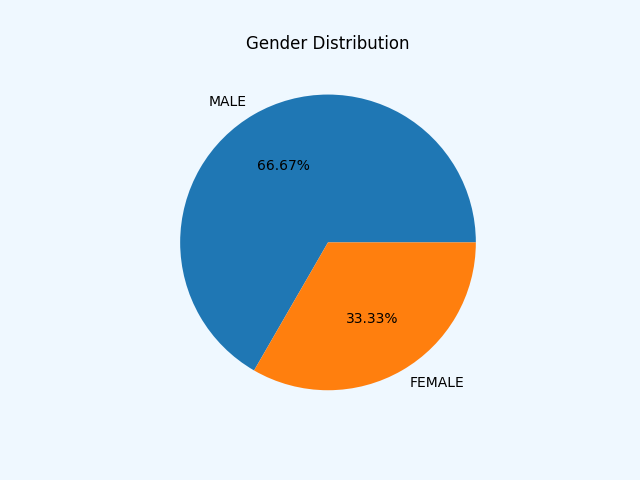
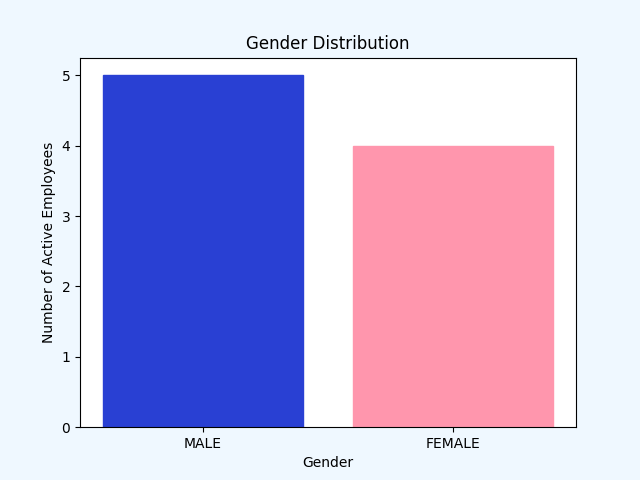
v0.9.0

diff --git a/admin/view_report.py b/admin/view_report.py
@@ -41,7 +41,7 @@ def monthly_report_func(event, self):
         """)
         y_atten_count.append(self.c.fetchone()[0])
     
-    self.c.execute("SELECT * FROM employees WHERE employee_id  != 'admin'")
+    self.c.execute("SELECT * FROM employees")
     num_of_emp = len(self.c.fetchall())
 
     fig = plt.figure()
@@ -51,13 +51,14 @@ def monthly_report_func(event, self):
         plt.bar(x_dates_of_month,y_atten_count)
     if graph_type == 'plot':
         plt.plot(x_dates_of_month,y_atten_count,'.-')
+        plt.fill_between(x_dates_of_month, y_atten_count, color='#539ecd')
 
     plt.ylim(top=num_of_emp)
     plt.xticks(rotation=65)
     plt.margins(0.01)
-    # plt.title('Monthly Attendance Report')
+    plt.title(f'Monthly Attendance Report for {cur_month_num.upper()} {cur_year_str.upper()}')
     plt.ylabel('NUMBER OF ATTENDANCE')
-    plt.xlabel(f'DATE OF MONTH FOR {cur_month_num.upper()} {cur_year_str.upper()}',labelpad=5)
+    plt.xlabel(f'DATE',labelpad=5)
     plt.savefig('report_fig/monthly_report.png')
     plt.close()
 
@@ -67,12 +68,12 @@ def monthly_report_func(event, self):
     self.monthly_fig = ImageTk.PhotoImage(Image.open('report_fig/monthly_report.png').resize((600, 430), Image.ANTIALIAS))
     self.month_label.config(image=self.monthly_fig)
 
-def gender_report_func(self,frame):
+def gender_percentage_func(self,frame):
     gender_num = []
-    self.c.execute("SELECT * FROM employees WHERE sex = 'MALE'")
+    self.c.execute("SELECT * FROM employees WHERE sex = 'MALE' AND work_status = 'active'")
     gender = ['MALE', 'FEMALE']
     gender_num.append(len(self.c.fetchall()))
-    self.c.execute("SELECT * FROM employees WHERE sex = 'FEMALE'")
+    self.c.execute("SELECT * FROM employees WHERE sex = 'FEMALE' AND work_status = 'active'")
     gender_num.append(len(self.c.fetchall()))
     graph = plt.pie(gender_num,labels=gender,autopct='%1.2f%%')
     # graph[0].set_color('#2940d3')
@@ -80,12 +81,32 @@ def gender_report_func(self,frame):
     plt.title('Gender Distribution')
     # plt.xlabel('Gender')
     # plt.ylabel('Number of Employees')
+    plt.savefig("report_fig/gender_percetage.png")
+    plt.close()
+
+    self.gender_report_img = ImageTk.PhotoImage(Image.open("report_fig/gender_percetage.png").resize((figure_w, figure_h), Image.ANTIALIAS))
+    Label(frame,image=self.gender_report_img,bg=BGCOLOR).pack()
+    
+def gender_report_func(self,frame):
+    gender_num = []
+    self.c.execute("SELECT * FROM employees WHERE sex = 'MALE' AND work_status = 'active'")
+    gender = ['MALE', 'FEMALE']
+    gender_num.append(len(self.c.fetchall()))
+    self.c.execute("SELECT * FROM employees WHERE sex = 'FEMALE' AND work_status = 'active'")
+    gender_num.append(len(self.c.fetchall()))
+    graph = plt.bar(gender,gender_num)
+    graph[0].set_color('#2940d3')
+    graph[1].set_color('#ff96ad')
+    plt.title('Gender Distribution')
+    plt.xlabel('Gender')
+    plt.ylabel('Number of Active Employees')
     plt.savefig("report_fig/gender_graph.png")
     plt.close()
 
-    self.gender_report_img = ImageTk.PhotoImage(Image.open('report_fig/gender_graph.png').resize((figure_w, figure_h), Image.ANTIALIAS))
-    Label(frame,image=self.gender_report_img,bg=BGCOLOR).pack()
+    self.gender_percentage_img = ImageTk.PhotoImage(Image.open('report_fig/gender_graph.png').resize((figure_w, figure_h), Image.ANTIALIAS))
+    Label(frame,image=self.gender_percentage_img,bg=BGCOLOR).pack()
     
+
 
 def active_report_func(self,frame):
 
@@ -102,7 +123,7 @@ def active_report_func(self,frame):
     barlist[0].set_color('#00ff5e')   
     barlist[1].set_color('#fd085b')
     
-    # plt.title('ACTIVE AND INACTIVE EMPLOYEES')
+    plt.title('Active and Inactive Employees')
     plt.ylabel('NUMBER OF EMPLOYEES')
     plt.xlabel('WORK STATUS OF EMPLOYEE')
     plt.savefig('report_fig/active_report.png')
@@ -121,9 +142,9 @@ def hearbeat_report_func(self,frame):
         y_per_month_count.append(len(self.c.fetchall()))
 
     plt.bar(x_months,y_per_month_count)
-    # plt.title('Current Year Attendance Report')
+    plt.title('Current Year Attendance Report')
     plt.ylabel('NUMBER OF EMPLOYEES')
-    plt.xlabel('Month')
+    plt.xlabel('MONTH')
     plt.savefig('report_fig/hearbeat_report.png')
     plt.close()
 
@@ -163,13 +184,14 @@ def view_report(self,menu_page):
     # I use LabelFrame just to see the division of contents, maybe change into Frame later
 
     global month_option
-    years_list = [str(x) for x in range(2010, 2050+1)]
+    self.cur_year = date.today().strftime('%Y')
+    years_list = [str(x) for x in range(2010, int(self.cur_year)+1)]
     month_option = ['Jan', 'Feb', 'Mar', 'Apr', 'May', 'Jun', 'Jul', 'Aug', 'Sep', 'Oct', 'Nov', 'Dec']
     g_type = ['bar','plot']
     cur_month = date.today().strftime('%b')
-    self.cur_year = date.today().strftime('%Y')
     
-    monthly_report_frame=LabelFrame(new_frame,text="MONTHLY ATTENDACE REPORT",bg=BGCOLOR,pady=frame_h,padx=frame_w)
+    #interactive monthly report
+    monthly_report_frame=LabelFrame(new_frame,bg=BGCOLOR,pady=frame_h,padx=frame_w)
     self.month_combo = ttk.Combobox(monthly_report_frame, value=month_option, width=5,state="readonly")
     self.month_combo.current(month_option.index(cur_month))
     
@@ -191,33 +213,43 @@ def view_report(self,menu_page):
     self.month_label.grid(row=0,column=0,columnspan=3)
     self.month_combo.grid(row=1,column=1,padx=5)
     self.year_combo.grid(row=1,column=1,sticky=E,padx=5)
-    Label(monthly_report_frame,text="Graph Type: ",bg=BGCOLOR).grid(row=1,column=2)
-    self.gtype_combo.grid(row=1,column=2,sticky=E,padx=5)
+    Label(monthly_report_frame,text="Graph View: ",bg=BGCOLOR).grid(row=1,column=2,sticky=W,padx=(25,0))
+    self.gtype_combo.grid(row=1,column=2,padx=5)
     monthly_report_frame.grid(row=1,column=1,columnspan=2)
     
     ttk.Separator(new_frame,orient='horizontal').grid(row=2,column=1,columnspan=3,sticky=EW,pady=30)
     Label(new_frame,text=" OTHER REPORT ",bg=BGCOLOR,font='Verdana, 12').grid(row=2,column=1,columnspan=3)
 
-    #frame from active and inactive report, edit the active_report_func function for the content
+    # inactive report
     fig = plt.figure()
     fig.patch.set_facecolor(BGCOLOR)
-    active_report_frame=LabelFrame(new_frame,text='ACTIVE AND INACTIVE REPORT',bg=BGCOLOR,pady=frame_w,padx=frame_h)
+    active_report_frame=LabelFrame(new_frame,bg=BGCOLOR,pady=frame_w,padx=frame_h)
     active_report_func(self,active_report_frame)
     active_report_frame.grid(row=3,column=1, padx=10)
 
+    
+    #current year attendace graph
     fig = plt.figure()
     fig.patch.set_facecolor(BGCOLOR)
-    #frame attendace graph, edit the hearbeat_report_func function for the content
-    hearbeat_report_frame=LabelFrame(new_frame,text='CURRENT YEAR ATTENDANCE REPORT',bg=BGCOLOR,pady=frame_h,padx=frame_w)
+    hearbeat_report_frame=LabelFrame(new_frame,bg=BGCOLOR,pady=frame_h,padx=frame_w)
     hearbeat_report_func(self,hearbeat_report_frame)
     hearbeat_report_frame.grid(row=3,column=2, padx=10)
 
+    #gender percentage
     fig = plt.figure()
     fig.patch.set_facecolor(BGCOLOR)
-    #frame from gender report, edit the gender_report_func function for the content
-    gender_report_frame=LabelFrame(new_frame,text="GENDER REPORT",bg=BGCOLOR,pady=frame_h,padx=frame_w)
+    gender_percentage_frame=LabelFrame(new_frame,bg=BGCOLOR,pady=frame_h,padx=frame_w)
+    gender_percentage_func(self,gender_percentage_frame)
+    gender_percentage_frame.grid(row=4,column=1,pady=20)
+    
+    #gender count report
+    fig = plt.figure()
+    fig.patch.set_facecolor(BGCOLOR)
+    gender_report_frame=LabelFrame(new_frame,bg=BGCOLOR,pady=frame_h,padx=frame_w)
     gender_report_func(self,gender_report_frame)
-    gender_report_frame.grid(row=4,column=1,columnspan=2)
+    gender_report_frame.grid(row=4,column=2,pady=20)
+
+    
 
     back_btn=Button(view_report_frame, image=self.back_img, bd=0, bg=BGCOLOR,command=lambda: [view_report_page.destroy(), menu_page.deiconify()])
     back_btn.place(x=900,y=450)

diff --git a/admin/show_record.py b/admin/show_record.py
@@ -53,49 +53,56 @@ def edit_record(self):
     id = record['values'][0]
     cell_size = 35
     table_col=3
-    edit_page_w = 400
+    edit_page_w = 500
     edit_page_h = 300
     x = int((self.scr_w/2) - (edit_page_w/2))
     y = int((self.scr_h/2) - (edit_page_h/2))
     win_size=f'{edit_page_w}x{edit_page_h}+{x}+{y}'
     global employee_id_edit,password_edit,first_name_edit,last_name_edit,sex_edit,schedule_in_edit,schedule_out_edit,work_status_edit, hide
     hide = 1
-    edit_record_page = Tk()
+    edit_record_page = Toplevel()
     edit_record_page.title('EDIT EMPLOYEE RECORD')
     edit_record_page.geometry(win_size)
-    edit_record_page.resizable(False,False)
     edit_record_page.config(bg=BGCOLOR)
 
-    Label(edit_record_page,text="EMPLOYEE ID:",bg=BGCOLOR).grid(row=2,column=table_col-1,padx=10,pady=(40,0 ))
-    employee_id_edit=Entry(edit_record_page, width=cell_size)
+    edit_record_frame = Frame(edit_record_page,bg=BGCOLOR)
+    edit_record_frame.pack()
+
+    Label(edit_record_frame,text="EMPLOYEE ID:",bg=BGCOLOR).grid(row=2,column=table_col-1,padx=10,pady=(40,0 ))
+    employee_id_edit=Entry(edit_record_frame, width=cell_size)
     employee_id_edit.grid(row=2, column=table_col, pady=(40, 0))
 
-    Label(edit_record_page,text="PASSWORD:",bg=BGCOLOR).grid(row=3,column=table_col-1)
-    password_edit=Entry(edit_record_page, width=cell_size)
-    password_edit.grid(row=3, column=table_col)
+    Label(edit_record_frame,text="PASSWORD:",bg=BGCOLOR).grid(row=3,column=table_col-1)
+    password_edit=Entry(edit_record_frame, width=cell_size)
+    password_edit.grid(row=3, column=table_col,sticky=W)
+
+    password_edit['show'] = '•'
+
+    check_box = Checkbutton(edit_record_frame,command=lambda :hides(record[1], check_box),bg=BGCOLOR)
+    check_box.grid(row=3, column=table_col,sticky=E)
     
-    Label(edit_record_page,text="FIRST NAME:",bg=BGCOLOR).grid(row=4,column=table_col-1)
-    first_name_edit=Entry(edit_record_page, width=cell_size)
+    Label(edit_record_frame,text="FIRST NAME:",bg=BGCOLOR).grid(row=4,column=table_col-1)
+    first_name_edit=Entry(edit_record_frame, width=cell_size)
     first_name_edit.grid(row=4, column=table_col)
 
-    Label(edit_record_page,text="LAST NAME:",bg=BGCOLOR).grid(row=5,column=table_col-1)
-    last_name_edit=Entry(edit_record_page,width=cell_size)
+    Label(edit_record_frame,text="LAST NAME:",bg=BGCOLOR).grid(row=5,column=table_col-1)
+    last_name_edit=Entry(edit_record_frame,width=cell_size)
     last_name_edit.grid(row=5,column=table_col)
 
-    Label(edit_record_page,text="SEX:",bg=BGCOLOR).grid(row=6,column=table_col-1)
-    sex_edit=Entry(edit_record_page, width=cell_size)
+    Label(edit_record_frame,text="SEX:",bg=BGCOLOR).grid(row=6,column=table_col-1)
+    sex_edit=Entry(edit_record_frame, width=cell_size)
     sex_edit.grid(row=6, column=table_col)
 
-    Label(edit_record_page,text="SCHEDULE IN:",bg=BGCOLOR).grid(row=7,column=table_col-1)
-    schedule_in_edit=Entry(edit_record_page, width=cell_size)
+    Label(edit_record_frame,text="SCHEDULE IN:",bg=BGCOLOR).grid(row=7,column=table_col-1)
+    schedule_in_edit=Entry(edit_record_frame, width=cell_size)
     schedule_in_edit.grid(row=7, column=table_col)
 
-    Label(edit_record_page, text="SCHEDULE OUT:",bg=BGCOLOR).grid(row=8, column=table_col - 1)
-    schedule_out_edit = Entry(edit_record_page, width=cell_size)
+    Label(edit_record_frame, text="SCHEDULE OUT:",bg=BGCOLOR).grid(row=8, column=table_col - 1)
+    schedule_out_edit = Entry(edit_record_frame, width=cell_size)
     schedule_out_edit.grid(row=8, column=table_col)
 
-    Label(edit_record_page, text="WORKING STATUS:",bg=BGCOLOR).grid(row=9, column=table_col - 1)
-    work_status_edit= Entry(edit_record_page, width=cell_size)
+    Label(edit_record_frame, text="WORKING STATUS:",bg=BGCOLOR).grid(row=9, column=table_col - 1)
+    work_status_edit= Entry(edit_record_frame, width=cell_size)
     work_status_edit.grid(row=9, column=table_col)
 
 
@@ -112,28 +119,18 @@ def edit_record(self):
         schedule_out_edit.insert(0, record[6])
         work_status_edit.insert(0,record[7])
 
-    password_edit['show'] = '*'
-
-    check_box = Button(edit_record_page, text='✓', relief=SUNKEN, width=1, bg=BGCOLOR,command=lambda :hides(record[1], check_box))
-    check_box.grid(row=10, column=table_col+1, pady=5)
-    Label(edit_record_page, text='Hide Password', bg=BGCOLOR).grid(row=10, column=table_col, sticky='e')
-
-    Button(edit_record_page,text="SAVE",width=15,command=lambda :update_query(self,edit_record_page,id),bg='#AAFE92').grid(row=11,column=table_col,pady=10)
-    Button(edit_record_page,text="CANCEL",width=15,command=lambda:edit_record_page.destroy(),bg='#e4bad4').grid(row=11,column=table_col-1,pady=10,padx=(35,0))
-
-    edit_record_page.mainloop()
-
+    
+    Button(edit_record_frame,image=self.cancel_img,bd=0,command=lambda:edit_record_page.destroy(),bg=BGCOLOR).grid(row=11,column=table_col-1,pady=20,padx=(40,0))
+    Button(edit_record_frame,image=self.save_img,bd=0,command=lambda :update_query(self,edit_record_page,id),bg=BGCOLOR).grid(row=11,column=table_col,pady=20,padx=(20,0))
 
 def hides(password, checkbox):
     global hide
     if hide == 1:
         password_edit['show'] = password
         hide= 0
-        checkbox.config(text='')
     else:
-        password_edit['show'] = '*'
+        password_edit['show'] = '•'
         hide = 1
-        checkbox.config(text='✓')
 
 def delete_query(self):
     try:

diff --git a/main.py b/main.py
@@ -130,7 +130,7 @@ class Main:
 
         # Password Entry
         # Label(root, text='Password', bg=BGCOLOR).grid(row=3, column=1,pady=(20, 10), padx=(50, 180))
-        password = Entry(root, width=30, show="*",bd=0)
+        password = Entry(root, width=30, show="•",bd=0)
         password.pack(pady=(0,30))
 
         # Log in Button
@@ -140,12 +140,6 @@ class Main:
         # Exit Button
         exit_button = Button(root, image=self.exit_img, border=0,bg='#FFFFFF', command=lambda: [root.destroy(), self.connection.close()])
         exit_button.pack()
-
-        # Hover ek ek
-        login_button.bind("<Enter>", self.enter)
-        login_button.bind("<Leave>", self.exit)
-        exit_button.bind("<Enter>", self.enter)
-        exit_button.bind("<Leave>", self.exit)
 
         # pressing Enter key will trigger the menu function, same what login button does
         global temp_root
@@ -190,14 +184,14 @@ class Main:
 
                 # Current Time Label
                 time_label = Label(menu_frame, bg=BGCOLOR,font=FONT)
-                time_label.grid(row=0, column=3, pady=20)
+                time_label.grid(row=0, column=3, pady=(20,65))
                 self.current_time(time_label)
 
                 button_h=110
                 button_w=250
 
                 # Logo
-                Label(menu_frame, image=self.app_logo, bg=BGCOLOR).grid(row=1, column=3, rowspan=2,pady=(50,0))
+                Label(menu_frame, image=self.app_logo, bg=BGCOLOR).grid(row=1, column=3, rowspan=2)
 
                 # Add Button
                 add_record_img = ImageTk.PhotoImage(Image.open("btn/add_record_btn.png").resize((button_w, button_h), Image.ANTIALIAS))
@@ -220,7 +214,7 @@ class Main:
                 attendance_button.grid(row=2, column=2, pady=2, padx=10)
 
                 # logout Button
-                Button(menu_frame, image=self.logout_img, bg=BGCOLOR,bd=0,command=lambda: [menu_page.destroy(), root.deiconify()]).grid(row=3, column=1,padx=10,pady=20,sticky=W)
+                Button(menu_frame, image=self.logout_img, bg=BGCOLOR,bd=0,command=lambda: [menu_page.destroy(), root.deiconify()]).grid(row=2, column=3,padx=10,sticky=S)
 
                 # check if the Exit th Window Manually
                 menu_page.protocol("WM_DELETE_WINDOW", lambda: [menu_page.destroy(), root.deiconify()])

diff --git a/admin/attendance_record.py b/admin/attendance_record.py
@@ -1,3 +1,4 @@
+from calendar import c
 from tkinter import *
 from tkinter import messagebox, ttk
 from datetime import datetime, date
@@ -112,6 +113,11 @@ def attendance_record(self, root_page, date, name):
 def choose_date(self,root ,root_root, name):
     # Window Creation
     date_page = Toplevel()
+    choose_date_w = 300
+    choose_date_h = 200
+    x = int((self.scr_w/2) - (choose_date_w/2))
+    y = int((self.scr_h/2) - (choose_date_h/2))
+    date_page.geometry(f'{choose_date_w}x{choose_date_h}+{x}+{y}')
     date_page.geometry('300x150')
     date_page.title('Date')
     # Getting the Date Today
@@ -132,7 +138,7 @@ def choose_date(self,root ,root_root, name):
 
     # Month Dropdown
     choices = ['Jan', 'Feb', 'Mar', 'Apr', 'May', 'Jun', 'Jul', 'Aug', 'Sep', 'Oct', 'Nov', 'Dec']
-    month = ttk.Combobox(date_frame, value=choices, width=4)
+    month = ttk.Combobox(date_frame, value=choices, width=4,state='readonly')
     month.current(choices.index(current_month))
     month.grid(row=1, column=0, padx=5)
 
@@ -142,8 +148,8 @@ def choose_date(self,root ,root_root, name):
     day.insert(0, current_day)
 
     # Year
-    years_list = [str(x) for x in range(2010, 2050+1)]
-    year = ttk.Combobox(date_frame, value=years_list, width=5)
+    years_list = [str(x) for x in range(2010, int(current_year)+1)]
+    year = ttk.Combobox(date_frame, value=years_list, width=5,state='readonly')
     year.current(years_list.index(current_year))
     year.grid(row=1, column=2, padx=10, sticky='w')
 

diff --git a/employee/time_in_out.py b/employee/time_in_out.py
@@ -6,7 +6,7 @@ def time_in_query(self, id):
     date_time_now = datetime.now()
     date_now = date_time_now.strftime('%b-%d-%Y')
     time_now = date_time_now.time()
-    answer = messagebox.askyesno(f'{date_time_now.strftime("%H:%M %p")}', 'You Want to TIME IN?')
+    answer = messagebox.askyesno('TIME IN', f'You are about to TIME IN now {date_time_now.strftime("%H:%M %p")} ?')
     if answer:
         # check if the user already time in today
         self.c.execute(f"SELECT time_in FROM employee_attendance WHERE employee_id = ? AND attendance_date = ?",
@@ -52,7 +52,7 @@ def time_in_query(self, id):
 def time_out_query(self, id):
     date = datetime.now()
     time_now = date.strftime('%I:%M %p')
-    answer = messagebox.askyesno(f'{time_now}', 'You Want to TIME OUT?')
+    answer = messagebox.askyesno('TIME OUT', f'You are about to TIME OUT now {time_now} ?')
     if answer:
         self.c.execute(f"SELECT * FROM employee_attendance WHERE employee_id = '{id}' and time_out = 'None'")
         result = self.c.fetchone()

diff --git a/employee/employees.py b/employee/employees.py
@@ -53,9 +53,6 @@ def edit_profile(self, id, root, parent_window):
     Button(edit, image=self.cancel_img, border=0, bg=BGCOLOR,
            command=lambda: [edit_profile.destroy()]).grid(row=3, column=1, pady=20)
 
-    # check if the Exit th Window Manually
-    edit_profile.protocol("WM_DELETE_WINDOW", lambda: [edit_profile.destroy(), self.employee_page(root, id)])
-
 
 def edit_profile_query(self, data):
     # edit profile query
